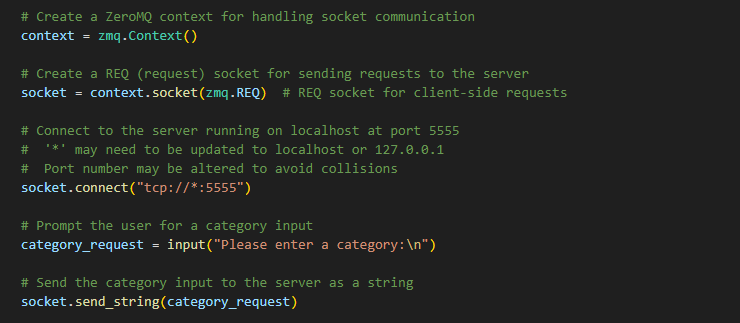
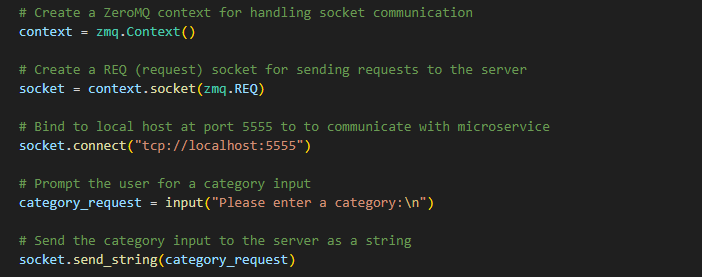
11/14/2024 Image update

diff --git a/Microservice_Client.py b/Microservice_Client.py
@@ -8,7 +8,7 @@ Client For Suggestions Microservice
 This program implements the client-side logic to communicate with a server using ZeroMQ.
 It uses the Request-Reply pattern to send requests and receive responses from a
 remote microservice. The client sends data requests and processes responses to provide
-real-time functionality for the end-user.
+real-time functionality for the enSd-user.
 """
 
 import zmq
@@ -22,7 +22,7 @@ def main():
     # Create a REQ (request) socket for sending requests to the server
     socket = context.socket(zmq.REQ)
 
-    # Connect to server running on localhost at port 5555
+    # Bind to local host at port 5555 to to communicate with microservice
     socket.connect("tcp://localhost:5555")
 
     # Prompt the user for a category input
